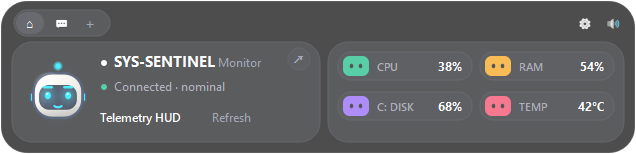
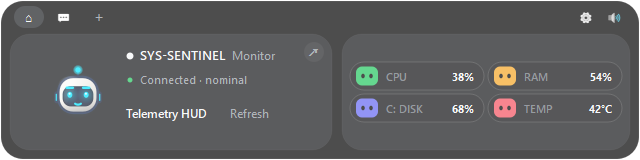
feat(ui): redesign top island to match Mochi layout, geometry, and styling

diff --git a/src/senti_island.py b/src/senti_island.py
@@ -183,8 +183,8 @@ class TopIslandWindow(QWidget):
         self.setAttribute(Qt.WidgetAttribute.WA_TranslucentBackground)
         self.setAttribute(Qt.WidgetAttribute.WA_ShowWithoutActivating)
 
-        # Exact dimensions matching Mochi 636 x 154 enclosed layout
-        self.setFixedSize(636, 154)
+        # Exact dimensions matching Mochi 640 x 160 layout
+        self.setFixedSize(640, 160)
 
         # Telemetry data
         self._telemetry: Dict[str, Any] = {
@@ -211,10 +211,10 @@ class TopIslandWindow(QWidget):
         self._fade_anim.setDuration(160)
         self._fade_anim.setEasingCurve(QEasingCurve.Type.InOutCubic)
 
-    def get_dock_target_pos(self, senti_size: int = 72) -> QPoint:
-        """Calculate screen position where SENTI nests inside Card 1."""
-        dock_x = self.x() + 22 + (72 - senti_size) // 2
-        dock_y = self.y() + 56 + (72 - senti_size) // 2
+    def get_dock_target_pos(self, senti_size: int = 58) -> QPoint:
+        """Calculate screen position where SENTI nests inside Card 1 (cx: 78, cy: 92)."""
+        dock_x = self.x() + 49 + (58 - senti_size) // 2
+        dock_y = self.y() + 63 + (58 - senti_size) // 2
         return QPoint(dock_x, dock_y)
 
     def update_telemetry(self, data: Dict[str, Any]):
@@ -233,35 +233,35 @@ class TopIslandWindow(QWidget):
     def _hit_test(self, pos: QPoint) -> Optional[str]:
         px, py = pos.x(), pos.y()
 
-        # Top-left navigation capsule (x: 14..110, y: 12..38)
-        if 12 <= py <= 38:
-            if 14 <= px < 46:
+        # Top bar left tabs (y: 6..28)
+        if 6 <= py <= 28:
+            if 14 <= px <= 44:
                 return "home"
-            elif 46 <= px < 76:
+            elif 49 <= px <= 79:
                 return "chat"
-            elif 76 <= px <= 110:
+            elif 84 <= px <= 114:
                 return "plus"
 
-        # Top-right action icons (x: 575..635, y: 12..38)
-        if 12 <= py <= 38:
-            if 575 <= px < 605:
+        # Top bar right actions (y: 6..28)
+        if 6 <= py <= 28:
+            if 576 <= px <= 598:
                 return "hud"
-            elif 605 <= px <= 635:
+            elif 604 <= px <= 626:
                 return "sound"
 
-        # Card 1 arrow [↗] (x: 290..318, y: 50..76)
-        if 50 <= py <= 76 and 290 <= px <= 318:
+        # Card 1 jump button [↗] (y: 40..64, x: 300..326)
+        if 40 <= py <= 64 and 300 <= px <= 326:
             return "hud"
 
-        # Card 1 clickable links (y: 112..140, x: 104..300)
-        if 112 <= py <= 140:
-            if 104 <= px < 210:
+        # Card 1 action links (y: 108..130)
+        if 108 <= py <= 130:
+            if 126 <= px <= 216:
                 return "hud"
-            elif 210 <= px <= 280:
+            elif 226 <= px <= 290:
                 return "refresh"
 
-        # Card 2 pills (x: 334..630, y: 44..150) -> Click opens HUD
-        if 44 <= py <= 150 and 334 <= px <= 630:
+        # Card 2 pills area (y: 34..150, x: 342..630) -> Click opens HUD
+        if 34 <= py <= 150 and 342 <= px <= 630:
             return "hud"
 
         return None
@@ -358,121 +358,121 @@ class TopIslandWindow(QWidget):
             w = self.width()
             h = self.height()
 
-            # 1. ENTIRE OUTER ISLAND CONTAINER WITH CRISP OUTLINE (Solid Pitch Black)
+            # 1. ENTIRE OUTER ISLAND CONTAINER (#island: background #000, 22px corner radius)
             island_rect = QRectF(1.0, 1.0, w - 2.0, h - 2.0)
-            p.setPen(QPen(QColor(255, 255, 255, 42), 1.2))
+            p.setPen(QPen(QColor(255, 255, 255, 28), 1.0))
             p.setBrush(QColor("#000000"))
-            p.drawRoundedRect(island_rect, 26.0, 26.0)
+            p.drawRoundedRect(island_rect, 22.0, 22.0)
 
-            # 2. Top Bar Elements
+            # 2. Header Bar (#header: height 34px)
             self._paint_top_bar(p)
 
-            # 3. Card 1 (Left: Mascot Host + Status + Links)
+            # 3. Overview Left Card (.overview > .left: w=322, h=116, radius=20, bg=#141518)
             self._paint_card_1(p)
 
-            # 4. Card 2 (Right: 2x2 Refined Metric Pills)
+            # 4. Overview Right Card (.overview > .right: w=288, h=116, radius=20, bg=#141518)
             self._paint_card_2(p)
         finally:
             p.end()
 
     def _paint_top_bar(self, p: QPainter):
-        """Paint the subtle top bar with navigation capsule and system icons."""
-        # Top-left capsule (x: 14, y: 10, w: 96, h: 26, radius: 13)
-        cap_rect = QRectF(14.0, 10.0, 96.0, 26.0)
-        p.setPen(QPen(QColor("#25272d"), 1.0))
-        p.setBrush(QColor("#141518"))
-        p.drawRoundedRect(cap_rect, 13.0, 13.0)
-
-        # Home button (active rounded button inside)
-        home_rect = QRectF(16.0, 12.0, 28.0, 22.0)
+        """Paint header bar matching Mochi #header tabs and actions."""
+        # Home tab (active .tab.on: 30x22, radius 11, bg #1d1f23, icon #f5f6f8)
+        home_rect = QRectF(14.0, 6.0, 30.0, 22.0)
         p.setPen(Qt.PenStyle.NoPen)
-        p.setBrush(QColor("#282a30"))
+        p.setBrush(QColor("#1d1f23"))
         p.drawRoundedRect(home_rect, 11.0, 11.0)
         p.setFont(QFont("Segoe UI Emoji", 9, QFont.Weight.Bold))
-        p.setPen(QColor("#ffffff"))
+        p.setPen(QColor("#f5f6f8"))
         p.drawText(home_rect, Qt.AlignmentFlag.AlignCenter, "⌂")
 
-        # Chat [💬]
-        p.setFont(QFont("Segoe UI Emoji", 8))
-        p.setPen(QColor("#00e5ff" if self._hover_target == "chat" else "#788195"))
-        p.drawText(QRectF(48, 10, 28, 26), Qt.AlignmentFlag.AlignCenter, "💬")
+        # Chat tab (.tab: 30x22, icon #8e939c)
+        chat_rect = QRectF(49.0, 6.0, 30.0, 22.0)
+        p.setFont(QFont("Segoe UI Emoji", 8.5))
+        p.setPen(QColor("#00e5ff" if self._hover_target == "chat" else "#8e939c"))
+        p.drawText(chat_rect, Qt.AlignmentFlag.AlignCenter, "💬")
 
-        # Plus [+]
+        # Plus tab (.tab: 30x22, icon #8e939c)
+        plus_rect = QRectF(84.0, 5.0, 30.0, 22.0)
         p.setFont(QFont("Segoe UI", 11, QFont.Weight.Normal))
-        p.setPen(QColor("#ffffff" if self._hover_target == "plus" else "#788195"))
-        p.drawText(QRectF(76, 10, 28, 26), Qt.AlignmentFlag.AlignCenter, "+")
+        p.setPen(QColor("#ffffff" if self._hover_target == "plus" else "#8e939c"))
+        p.drawText(plus_rect, Qt.AlignmentFlag.AlignCenter, "+")
 
-        # Top-right: Gear and Speaker
+        # Header actions (right): Gear and Speaker
         p.setFont(QFont("Segoe UI Emoji", 9))
-        p.setPen(QColor("#ffffff" if self._hover_target == "hud" else "#788195"))
-        p.drawText(QRectF(574, 12, 24, 22), Qt.AlignmentFlag.AlignCenter, "⚙")
+        p.setPen(QColor("#ffffff" if self._hover_target == "hud" else "#8e939c"))
+        p.drawText(QRectF(576.0, 6.0, 22.0, 22.0), Qt.AlignmentFlag.AlignCenter, "⚙")
 
         sound_on = True
         if self.is_sound_enabled_getter:
             sound_on = self.is_sound_enabled_getter()
         sound_icon = "🔊" if sound_on else "🔇"
-        p.setPen(QColor("#38bdf8" if (sound_on and self._hover_target != "sound") else ("#ffffff" if self._hover_target == "sound" else "#475569")))
-        p.drawText(QRectF(602, 12, 24, 22), Qt.AlignmentFlag.AlignCenter, sound_icon)
+        sound_color = QColor(
+            "#22d3ee"
+            if (sound_on and self._hover_target != "sound")
+            else ("#ffffff" if self._hover_target == "sound" else "#8e939c")
+        )
+        p.setPen(sound_color)
+        p.drawText(QRectF(604.0, 6.0, 22.0, 22.0), Qt.AlignmentFlag.AlignCenter, sound_icon)
 
     def _paint_card_1(self, p: QPainter):
-        """Paint Card 1 (Left): Solid opaque dark container with SENTI, status, and links."""
-        c1_rect = QRectF(12.0, 42.0, 308.0, 100.0)
-        p.setPen(QPen(QColor("#24262c"), 1.0))
+        """Paint Card 1 (Left: 322x116, radius 20, bg #141518, hairline border)."""
+        c1_rect = QRectF(10.0, 34.0, 322.0, 116.0)
+        p.setPen(QPen(QColor(255, 255, 255, 9), 1.0))
         p.setBrush(QColor("#141518"))
         p.drawRoundedRect(c1_rect, 20.0, 20.0)
 
-        # Card 1 top-right arrow button [↗]
-        arrow_box = QRectF(288.0, 48.0, 22.0, 22.0)
-        p.setPen(QPen(QColor("#24262c"), 1.0))
-        p.setBrush(QColor("#1a1b20"))
-        p.drawEllipse(arrow_box)
-        p.setFont(QFont("Segoe UI", 9, QFont.Weight.DemiBold))
-        p.setPen(QColor("#ffffff" if self._hover_target == "hud" else "#788195"))
-        p.drawText(arrow_box, Qt.AlignmentFlag.AlignCenter, "↗")
-
-        # Card 1 text layout (x: 100..)
-        tx = 100.0
-
-        # Dot + Title
+        # Jump button (.jump: 20x20 circular button at top right)
+        jump_rect = QRectF(304.0, 42.0, 20.0, 20.0)
         p.setPen(Qt.PenStyle.NoPen)
-        p.setBrush(QColor("#ffffff"))
-        p.drawEllipse(QPointF(tx + 4, 63), 3.0, 3.0)
+        p.setBrush(QColor(255, 255, 255, 14))
+        p.drawEllipse(jump_rect)
+        p.setFont(QFont("Segoe UI", 9, QFont.Weight.DemiBold))
+        p.setPen(QColor("#ffffff" if self._hover_target == "hud" else "#8e939c"))
+        p.drawText(jump_rect, Qt.AlignmentFlag.AlignCenter, "↗")
 
-        p.setFont(QFont("Segoe UI", 11, QFont.Weight.Bold))
-        p.setPen(QColor("#ffffff"))
-        p.drawText(int(tx + 14), 67, "SYS-SENTINEL")
+        # Left card text layout (.who at x=126)
+        tx = 126.0
+
+        # Row 1: Dot + SYS-SENTINEL + Monitor
+        p.setPen(Qt.PenStyle.NoPen)
+        p.setBrush(QColor("#f5f6f8"))
+        p.drawEllipse(QPointF(tx + 4, 56), 3.5, 3.5)
+
+        p.setFont(QFont("Segoe UI", 10, QFont.Weight.DemiBold))
+        p.setPen(QColor("#f5f6f8"))
+        p.drawText(int(tx + 14), 60, "SYS-SENTINEL")
 
         p.setFont(QFont("Segoe UI", 9, QFont.Weight.Normal))
-        p.setPen(QColor("#788195"))
-        p.drawText(int(tx + 118), 67, "Monitor")
+        p.setPen(QColor("#8e939c"))
+        p.drawText(int(tx + 106), 60, "Monitor")
 
-        # Subtitle
+        # Row 2: Status (.int-status)
         cpu = self._telemetry.get("cpu", 0.0)
         is_warn = cpu >= 65.0
-        bullet_c = QColor("#f59e0b" if is_warn else "#10b981")
-
+        bullet_c = QColor("#f59e0b" if is_warn else "#22c55e")
         p.setPen(Qt.PenStyle.NoPen)
         p.setBrush(bullet_c)
-        p.drawEllipse(QPointF(tx + 4, 87), 3.0, 3.0)
+        p.drawEllipse(QPointF(tx + 4, 80), 2.5, 2.5)
 
         status_text = "Alert · High Load" if is_warn else "Connected · nominal"
-        p.setFont(QFont("Segoe UI", 9))
-        p.setPen(QColor("#f59e0b" if is_warn else "#9094a2"))
-        p.drawText(int(tx + 14), 91, status_text)
+        p.setFont(QFont("Segoe UI", 8.5))
+        p.setPen(QColor("#f59e0b" if is_warn else "#9398a1"))
+        p.drawText(int(tx + 14), 84, status_text)
 
-        # Links
+        # Row 3: Action Links (Telemetry HUD, Refresh)
         p.setFont(QFont("Segoe UI", 9, QFont.Weight.DemiBold))
-        p.setPen(QColor("#38bdf8" if self._hover_target == "hud" else "#ffffff"))
-        p.drawText(int(tx), 122, "Telemetry HUD")
+        p.setPen(QColor("#38bdf8" if self._hover_target == "hud" else "#f5f6f8"))
+        p.drawText(int(tx), 118, "Telemetry HUD")
 
         p.setFont(QFont("Segoe UI", 9, QFont.Weight.Normal))
-        p.setPen(QColor("#ffffff" if self._hover_target == "refresh" else "#788195"))
-        p.drawText(int(tx + 112), 122, "Refresh")
+        p.setPen(QColor("#ffffff" if self._hover_target == "refresh" else "#8e939c"))
+        p.drawText(int(tx + 104), 118, "Refresh")
 
     def _paint_card_2(self, p: QPainter):
-        """Paint Card 2 (Right): Solid opaque dark container with 2x2 metric pills."""
-        c2_rect = QRectF(328.0, 42.0, 296.0, 100.0)
-        p.setPen(QPen(QColor("#24262c"), 1.0))
+        """Paint Card 2 (Right: 288x116, radius 20, bg #141518, 2x2 pills)."""
+        c2_rect = QRectF(342.0, 34.0, 288.0, 116.0)
+        p.setPen(QPen(QColor(255, 255, 255, 9), 1.0))
         p.setBrush(QColor("#141518"))
         p.drawRoundedRect(c2_rect, 20.0, 20.0)
 
@@ -487,21 +487,21 @@ class TopIslandWindow(QWidget):
 
         temp_str = f"{temp_val:.0f}°C" if temp_val is not None else "N/A"
 
-        col1_x = 338.0
-        col2_x = 480.0
-        row1_y = 52.0
-        row2_y = 92.0
+        col1_x = 350.0
+        col2_x = 488.0
+        row1_y = 62.0
+        row2_y = 94.0
         pw = 134.0
         ph = 28.0
 
-        # Pill 1: CPU (Emerald)
-        self._paint_pill(p, col1_x, row1_y, pw, ph, QColor("#10b981"), "CPU", f"{cpu_val:.0f}%")
-        # Pill 2: RAM (Amber)
-        self._paint_pill(p, col2_x, row1_y, pw, ph, QColor("#f59e0b"), "RAM", f"{ram_val:.0f}%")
-        # Pill 3: DISK (Violet)
-        self._paint_pill(p, col1_x, row2_y, pw, ph, QColor("#8b5cf6"), f"{sys_drive} DISK", f"{disk_val:.0f}%")
-        # Pill 4: TEMP (Rose)
-        self._paint_pill(p, col2_x, row2_y, pw, ph, QColor("#f43f5e"), "TEMP", temp_str)
+        # Pill 1: CPU (Emerald #22c55e)
+        self._paint_pill(p, col1_x, row1_y, pw, ph, QColor("#22c55e"), "CPU", f"{cpu_val:.0f}%")
+        # Pill 2: RAM (Amber #f5a524)
+        self._paint_pill(p, col2_x, row1_y, pw, ph, QColor("#f5a524"), "RAM", f"{ram_val:.0f}%")
+        # Pill 3: DISK (Indigo #6366f1)
+        self._paint_pill(p, col1_x, row2_y, pw, ph, QColor("#6366f1"), f"{sys_drive} DISK", f"{disk_val:.0f}%")
+        # Pill 4: TEMP (Red/Rose #f4505e)
+        self._paint_pill(p, col2_x, row2_y, pw, ph, QColor("#f4505e"), "TEMP", temp_str)
 
     def _paint_pill(
         self,
@@ -514,35 +514,35 @@ class TopIslandWindow(QWidget):
         label: str,
         val_str: str,
     ):
-        """Paint a single compact solid pill with two-eyed badge, label, and value."""
+        """Paint a single pill (.pill: height 28px, radius 999px, bg #0e0f11, border rgba(255,255,255,0.14))."""
         rect = QRectF(px, py, pw, ph)
-        p.setPen(QPen(QColor("#26282f"), 1.0))
-        p.setBrush(QColor("#1a1b20"))
-        p.drawRoundedRect(rect, 13.0, 13.0)
+        p.setPen(QPen(QColor(255, 255, 255, 36), 1.0))
+        p.setBrush(QColor("#0e0f11"))
+        p.drawRoundedRect(rect, 14.0, 14.0)
 
-        # Badge
-        bx, by, bw, bh = px + 5.0, py + 4.0, 26.0, 20.0
+        # Mini badge (.mini: 22x19, radius 6px)
+        bx, by, bw, bh = px + 6.0, py + 4.5, 22.0, 19.0
         p.setPen(Qt.PenStyle.NoPen)
         p.setBrush(badge_color)
-        p.drawRoundedRect(QRectF(bx, by, bw, bh), 6.5, 6.5)
+        p.drawRoundedRect(QRectF(bx, by, bw, bh), 6.0, 6.0)
 
-        # Eyes
-        p.setBrush(QColor("#0b0c0f"))
-        p.drawEllipse(QPointF(bx + 8.5, by + 10.0), 1.8, 2.3)
-        p.drawEllipse(QPointF(bx + 17.5, by + 10.0), 1.8, 2.3)
+        # Two little black dot eyes
+        p.setBrush(QColor("#000000"))
+        p.drawEllipse(QPointF(bx + 7.0, by + 9.5), 1.8, 2.3)
+        p.drawEllipse(QPointF(bx + 15.0, by + 9.5), 1.8, 2.3)
 
-        # Label
-        p.setFont(QFont("Segoe UI", 8.5, QFont.Weight.DemiBold))
-        p.setPen(QColor("#8a8e9e"))
+        # Label (.lbl)
+        p.setFont(QFont("Segoe UI", 8, QFont.Weight.DemiBold))
+        p.setPen(QColor("#6b7079"))
         p.drawText(
-            QRectF(bx + bw + 8, py, 48, ph),
+            QRectF(bx + bw + 8, py, 44, ph),
             Qt.AlignmentFlag.AlignVCenter | Qt.AlignmentFlag.AlignLeft,
             label,
         )
 
         # Value
-        p.setFont(QFont("Segoe UI", 9, QFont.Weight.Bold))
-        p.setPen(QColor("#ffffff"))
+        p.setFont(QFont("Segoe UI", 8.5, QFont.Weight.Bold))
+        p.setPen(QColor("#f5f6f8"))
         p.drawText(
             QRectF(px, py, pw - 10, ph),
             Qt.AlignmentFlag.AlignVCenter | Qt.AlignmentFlag.AlignRight,

diff --git a/tools/capture_live_desktop.py b/tools/capture_live_desktop.py
@@ -1,0 +1,22 @@
+"""Capture the live desktop screen to inspect running SENTI on desktop."""
+
+import os
+import sys
+import time
+
+REPO_ROOT = os.path.dirname(os.path.dirname(os.path.abspath(__file__)))
+screenshots_dir = os.path.join(REPO_ROOT, "screenshots")
+os.makedirs(screenshots_dir, exist_ok=True)
+out_path = os.path.join(screenshots_dir, "live_desktop_senti.png")
+
+from PySide6.QtWidgets import QApplication
+from PySide6.QtGui import QGuiApplication
+
+app = QApplication.instance() or QApplication(sys.argv)
+screen = QGuiApplication.primaryScreen()
+if screen:
+    pix = screen.grabWindow(0)
+    pix.save(out_path)
+    print(f"Captured desktop to {out_path} ({pix.width()}x{pix.height()})")
+else:
+    print("Error: primary screen not found")

diff --git a/src/senti_app.py b/src/senti_app.py
@@ -70,8 +70,8 @@ from senti_hotkeys import (
 # =====================================================================
 STARTUP_GREETINGS = list(DEFAULT_GREETINGS)
 
-NORMAL_SIZE = 72      # Consistent mascot size (same size floating and docked)
-DOCKED_SIZE = 72      # Senti matches island dock size
+NORMAL_SIZE = 58      # Matches Mochi botDiameter: 58 (consistent floating & docked size)
+DOCKED_SIZE = 58      # Senti nests perfectly inside Card 1 at (49, 63)
 ORB_SIZE = 44         # Minimalist orb form
 DRAG_THRESHOLD = 5
 

diff --git a/tools/capture_screenshots.py b/tools/capture_screenshots.py
@@ -74,8 +74,8 @@ def capture_all():
         "system_drive": "C:",
     })
     docked_senti = SentiMascot(island)
-    docked_senti.resize(72, 72)
-    docked_senti.move(22, 56)
+    docked_senti.resize(58, 58)
+    docked_senti.move(49, 63)
     docked_senti._timer.stop()
     island.show()
     pix_island = island.grab()
